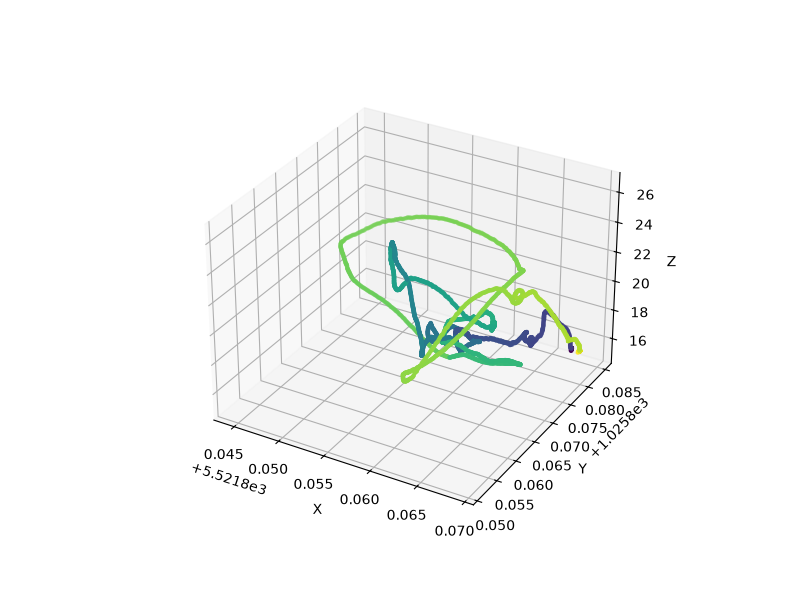
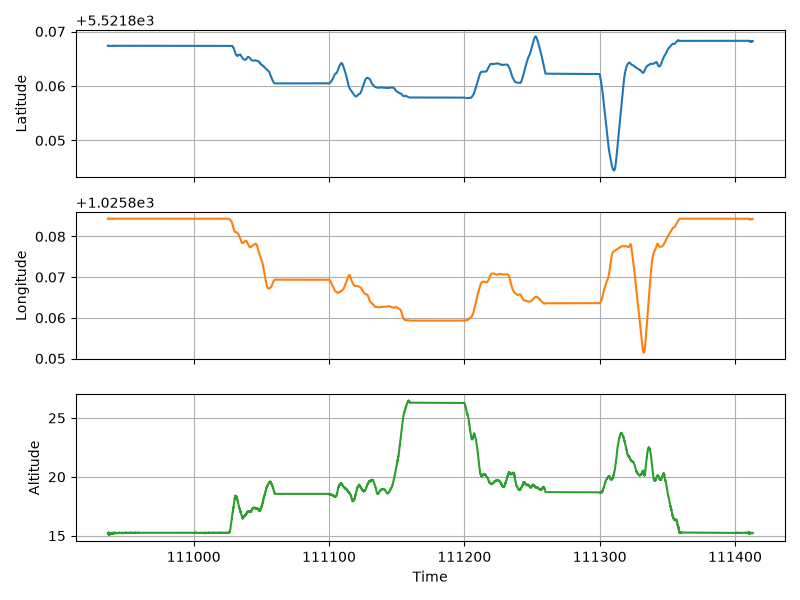
Lab 2: Another plot

diff --git a/Lab 2/idt_module_2_materials/exercise_nmea_data/exercise4.2.py b/Lab 2/idt_module_2_materials/exercise_nmea_data/exercise4.2.py
@@ -26,17 +26,34 @@ for i, p in enumerate(nmea.data):
 data = np.array(data).astype(np.float64)
 
 t = data[:, 0]
-x = data[:, 1]
-y = data[:, 2]
-z = data[:, 3]
+lat = data[:, 1]
+lon = data[:, 2]
+alt = data[:, 3]
 
 fig = plt.figure(figsize=(8, 6))
 ax = fig.add_subplot(111, projection='3d')
 # ax.plot(x, y, z, color='tab:red', linewidth=2)
-ax.scatter(x, y, z, c=t, cmap='viridis', s=5)
+ax.scatter(lat, lon, alt, c=t, cmap='viridis', s=5)
 # ax.colorbar(label='Time')
 ax.set_xlabel('X')
 ax.set_ylabel('Y')
 ax.set_zlabel('Z')
+plt.savefig(f"{input_path}-3d.png")
 
+fig, (ax1, ax2, ax3) = plt.subplots(3, 1, sharex=True, figsize=(8, 6))
+
+ax1.plot(t, lat, color="tab:blue", label="Latitude")
+ax1.set_ylabel("Latitude")
+ax1.grid(True)
+
+ax2.plot(t, lon, color="tab:orange", label="Longitude")
+ax2.set_ylabel("Longitude")
+ax2.grid(True)
+
+ax3.plot(t, alt, color="tab:green", label="Altitude")
+ax3.set_ylabel("Altitude")
+ax3.set_xlabel("Time")  # Shared x-label goes on the bottom plot
+ax3.grid(True)
+
+plt.tight_layout()  # Adjust layout to prevent overlap
 plt.savefig(f"{input_path}.png")
